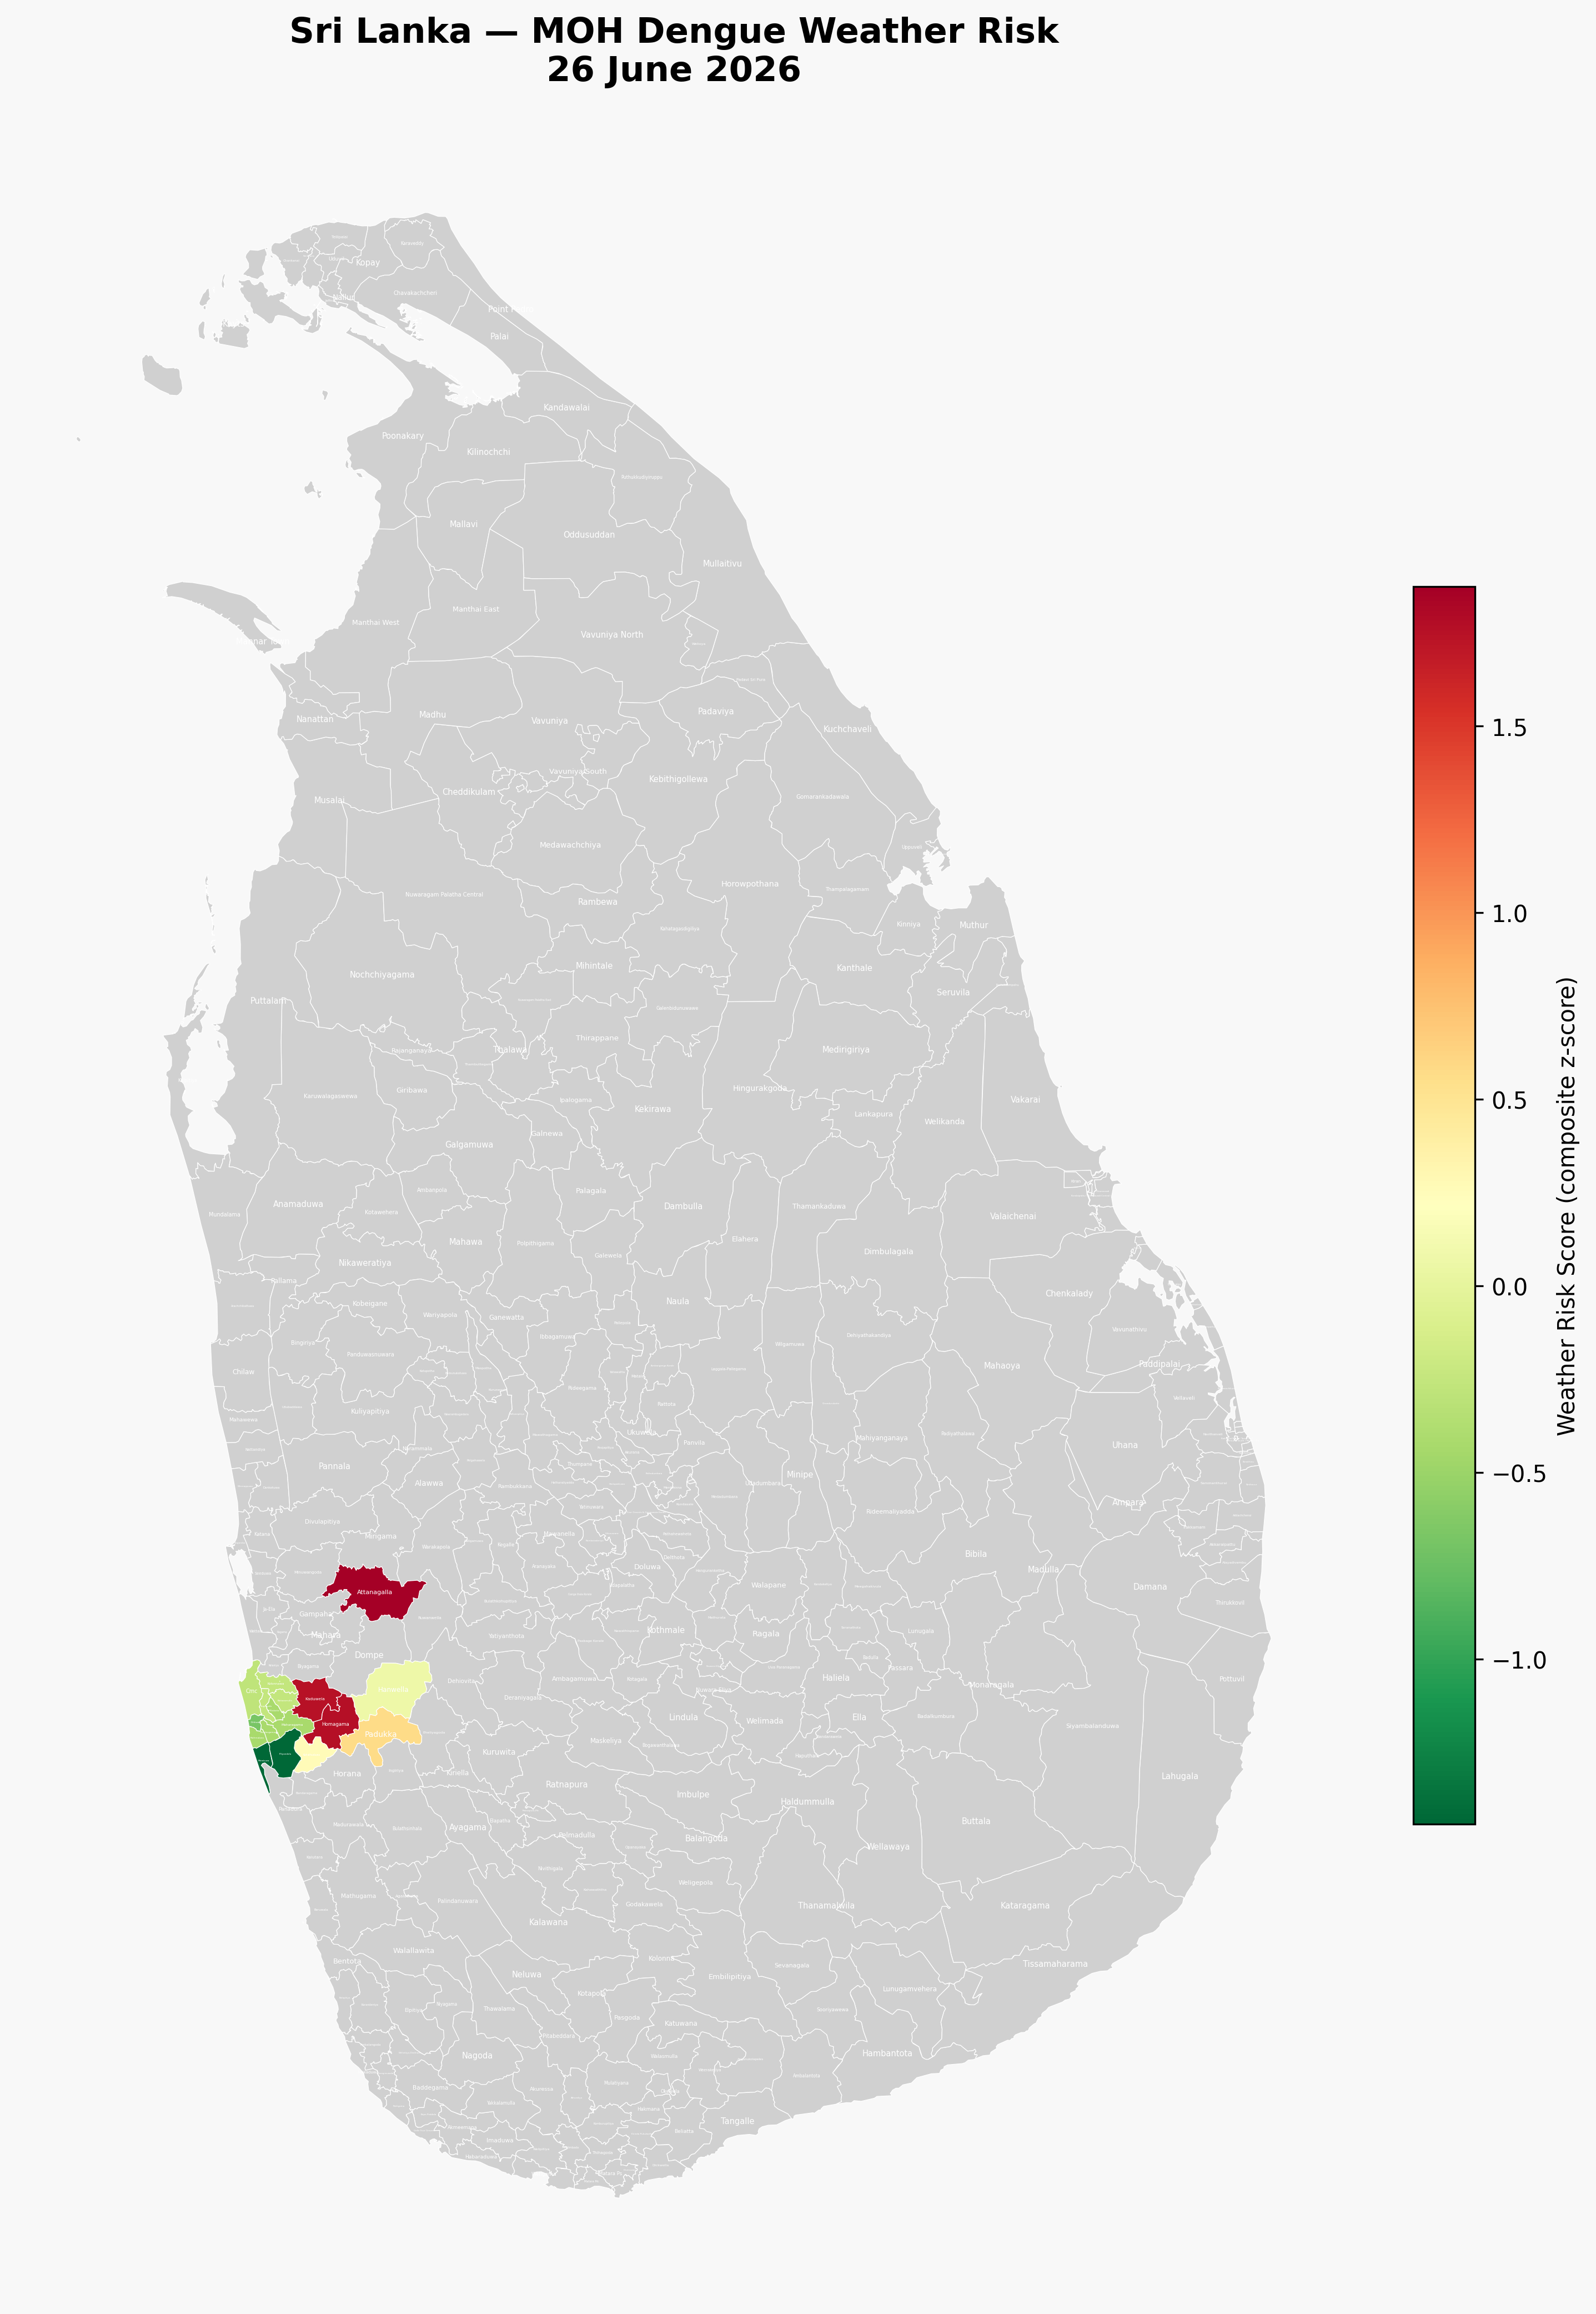
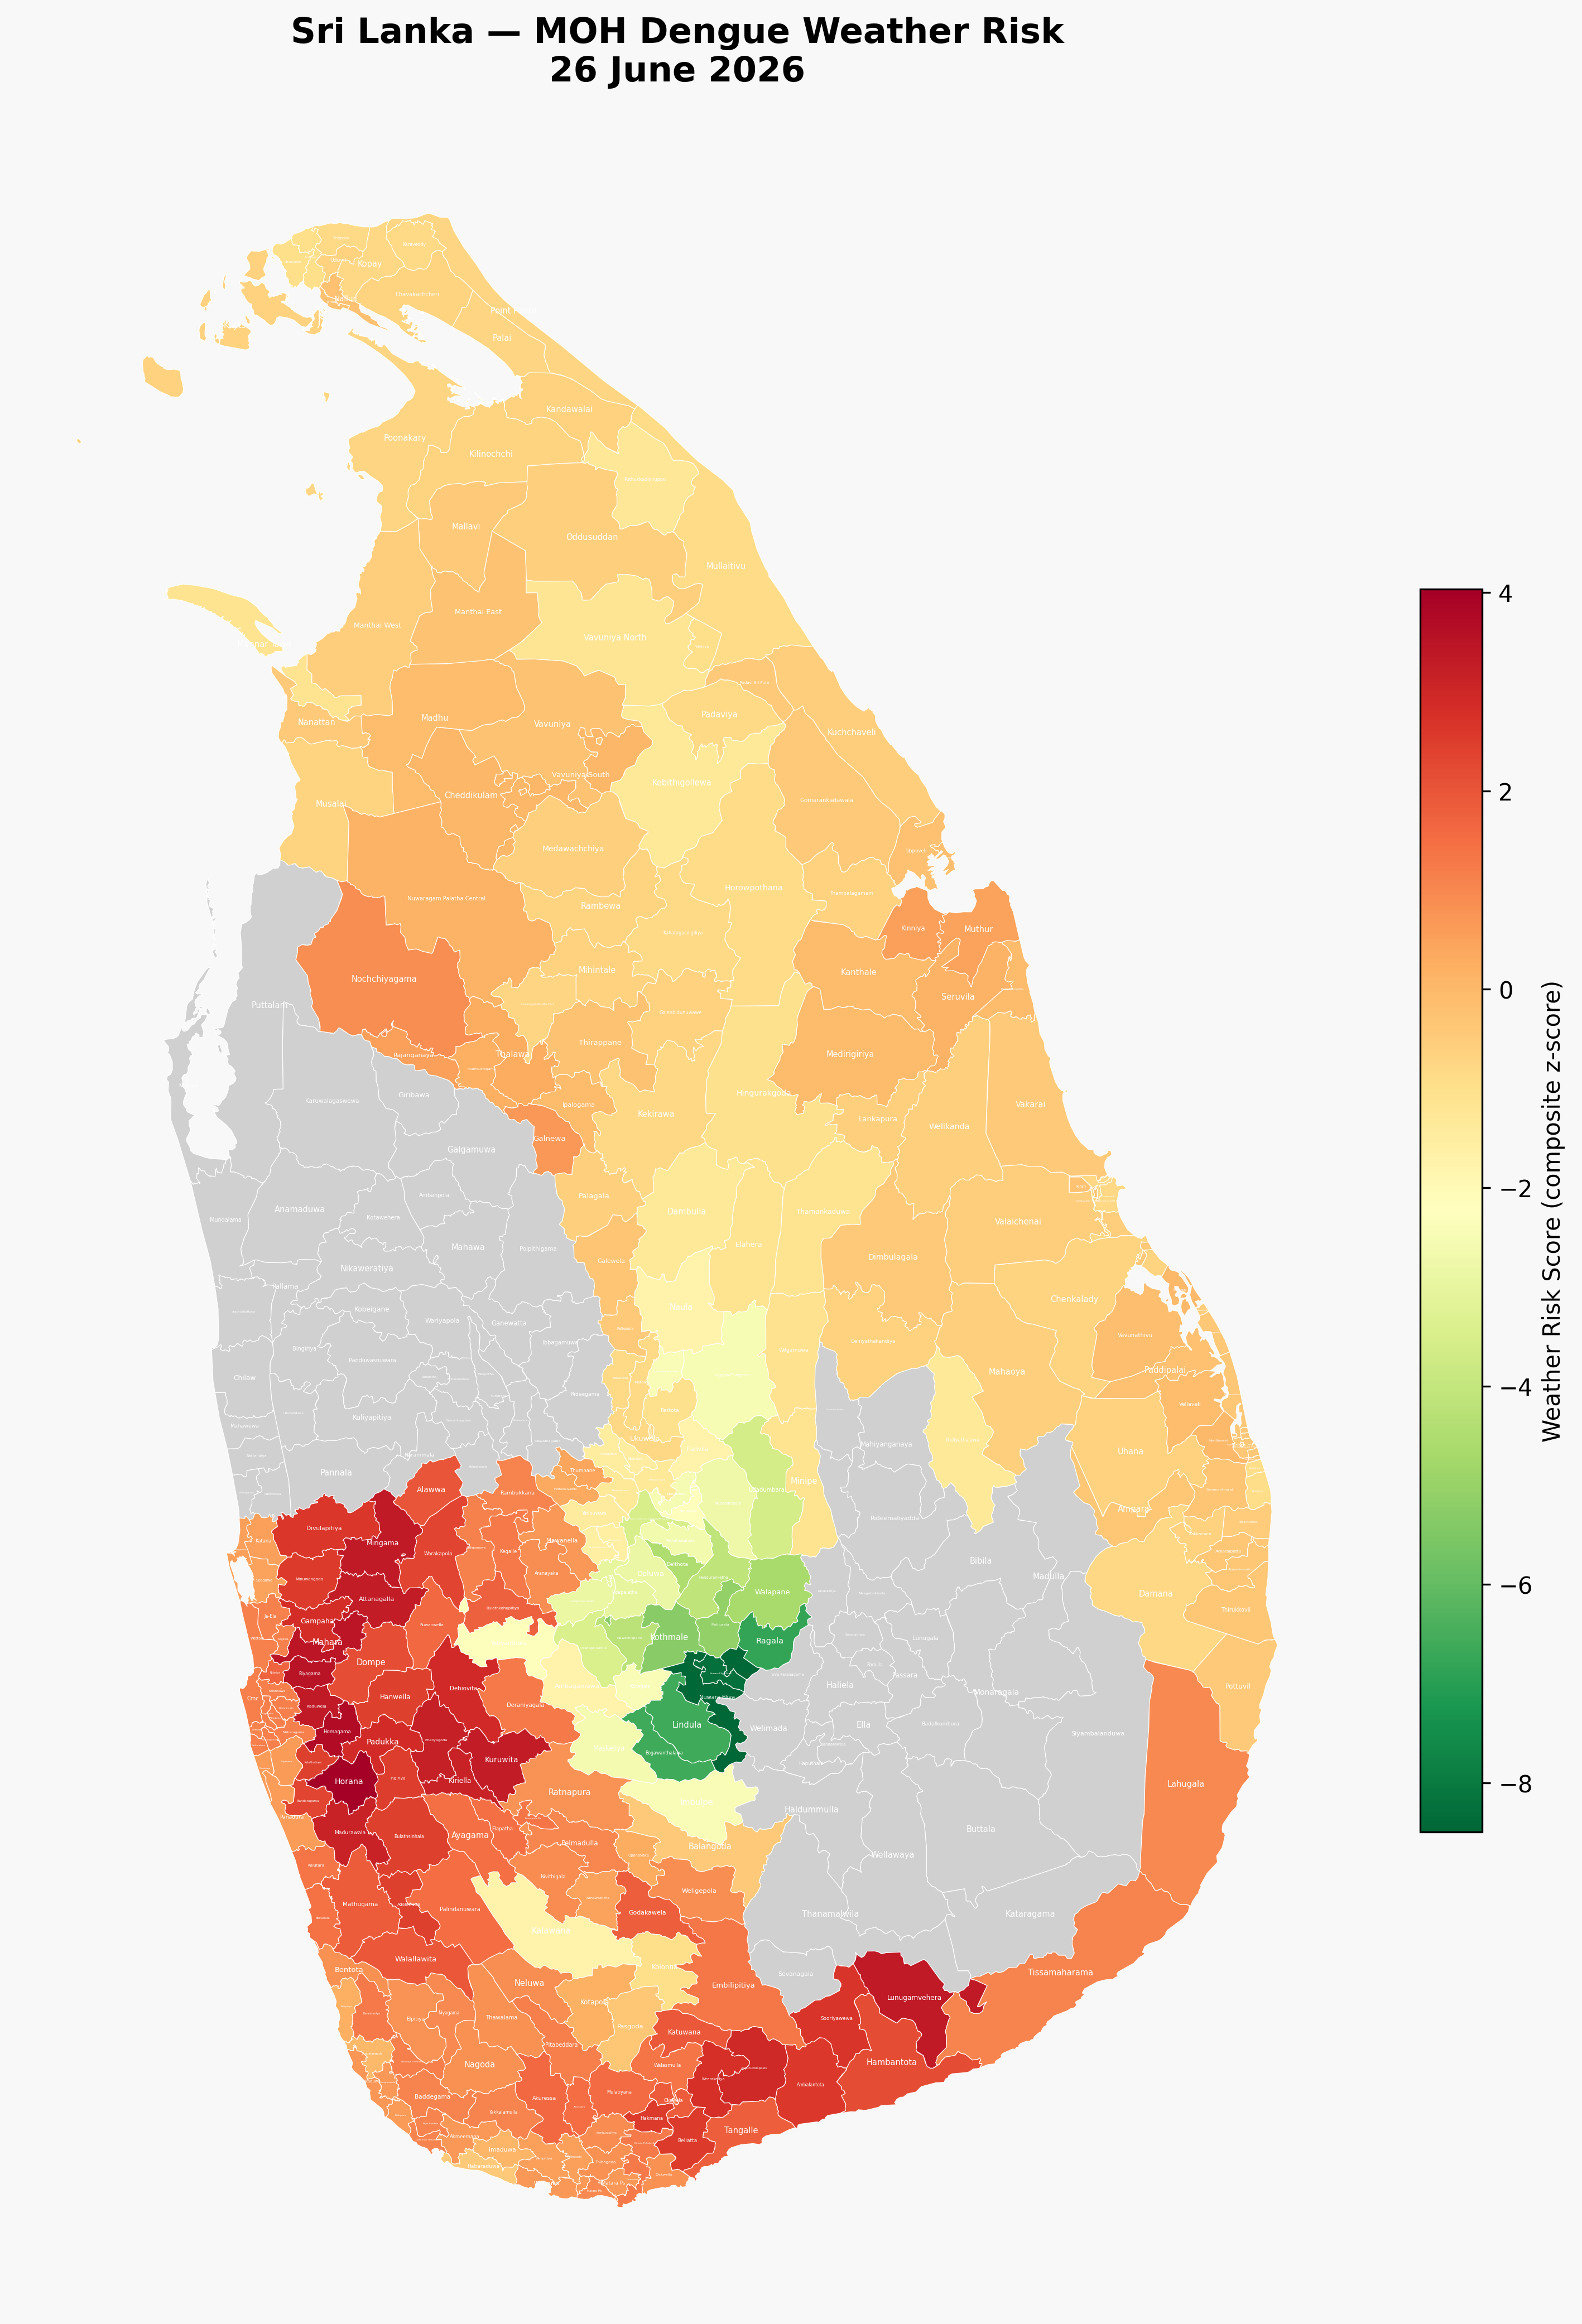
Update README and JSON data for improved region identification and risk mapping

diff --git a/README.md b/README.md
@@ -3,7 +3,7 @@
 Dengue outbreak weather-risk model for Sri Lanka MOH regions.
 See [README.methodology.md](README.methodology.md) for full methodology.
 
-_Last updated: 26 June 2026 · 17 regions with model results._
+_Last updated: 26 June 2026 · 333 regions with model results._
 
 ---
 
@@ -25,23 +25,26 @@ Sorted by composite weather-risk score (descending).
 
 | Region | District | Risk Score | Rainfall mm (−10w) | Max Temp °C (−16w) | Min Temp °C (−13w) |
 |---|---|---:|---:|---:|---:|
-| Attanagalla | LK-12 | 1.87 | 35.0 | 36.0 | 23.5 |
-| Homagama | LK-11 | 1.77 | 55.2 | 33.5 | 23.1 |
-| Kaduwela | LK-11 | 1.76 | 46.3 | 33.6 | 23.8 |
-| Padukka | LK-11 | 0.57 | 44.0 | 33.8 | 22.9 |
-| Kahathuduwa | LK-11 | 0.26 | 44.9 | 32.0 | 23.6 |
-| Hanwella | LK-11 | 0.07 | 34.7 | 34.5 | 22.9 |
-| Nugegoda | LK-11 | -0.25 | 23.5 | 31.8 | 25.0 |
-| Kolonnawa | LK-11 | -0.25 | 23.5 | 31.8 | 25.0 |
-| Battaramulla | LK-11 | -0.25 | 23.5 | 31.8 | 25.0 |
-| CMC | LK-11 | -0.28 | 23.5 | 31.8 | 25.0 |
-| Maharagama | LK-11 | -0.42 | 25.8 | 31.5 | 24.9 |
-| Rathmalana | LK-11 | -0.42 | 25.8 | 31.5 | 24.9 |
-| Pitakotte | LK-11 | -0.42 | 25.8 | 31.5 | 24.9 |
-| Boralesgamuwa | LK-11 | -0.42 | 25.8 | 31.5 | 24.9 |
-| Dehiwala | LK-11 | -0.68 | 25.8 | 31.4 | 24.8 |
-| Moratuwa | LK-11 | -1.44 | 25.3 | 30.5 | 24.7 |
-| Piliyandala | LK-11 | -1.44 | 25.3 | 30.5 | 24.7 |
+| Horana | LK-13 | 4.03 | 64.2 | 32.6 | 23.1 |
+| Homagama | LK-11 | 3.72 | 55.2 | 33.5 | 23.1 |
+| Biyagama | LK-12 | 3.50 | 43.3 | 34.5 | 24.0 |
+| Mahara | LK-12 | 3.45 | 37.5 | 35.8 | 23.6 |
+| Thanamalwila | LK-82 | 3.40 | 52.2 | 34.4 | 21.9 |
+| Lunugamvehera | LK-33 | 3.31 | 47.1 | 32.8 | 24.6 |
+| Mirigama | LK-12 | 3.31 | 35.4 | 36.0 | 23.5 |
+| Kaduwela | LK-11 | 3.30 | 46.3 | 33.6 | 23.8 |
+| Kuruwita | LK-91 | 3.28 | 48.9 | 33.8 | 23.0 |
+| Attanagalla | LK-12 | 3.28 | 35.0 | 36.0 | 23.5 |
+| Eheliyagoda | LK-91 | 3.20 | 45.7 | 34.4 | 22.8 |
+| Kiriella | LK-91 | 3.11 | 48.9 | 33.5 | 22.8 |
+| Madurawala | LK-13 | 3.10 | 54.2 | 32.1 | 23.3 |
+| Nikaweratiya | LK-61 | 3.04 | 42.8 | 33.3 | 24.2 |
+| Angunukolapeles | LK-33 | 2.99 | 45.2 | 33.5 | 23.3 |
+| Dehiovita | LK-92 | 2.95 | 46.9 | 34.8 | 21.4 |
+| Buttala | LK-82 | 2.91 | 48.3 | 32.8 | 23.2 |
+| Padukka | LK-11 | 2.88 | 44.0 | 33.8 | 22.9 |
+| Dankotuwa | LK-62 | 2.87 | 38.9 | 34.3 | 23.4 |
+| Gampaha | LK-12 | 2.83 | 35.4 | 34.6 | 23.7 |
 
 > **Note:** Risk scores are weather-only (composite z-score of lagged
 > meteorological predictors). Full GLM-based dengue